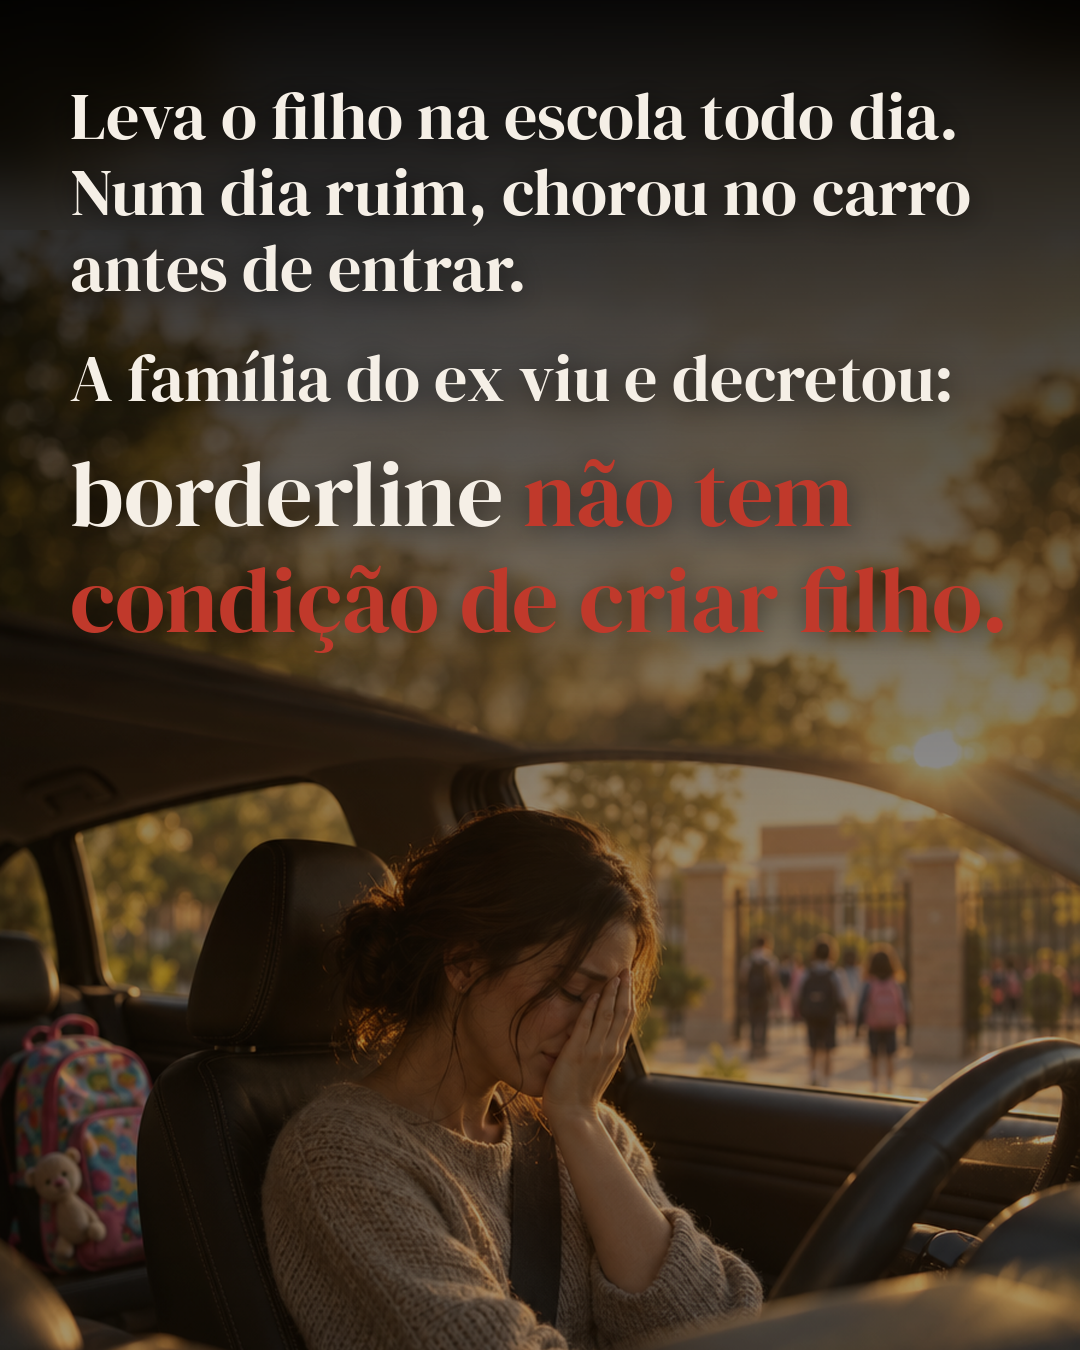
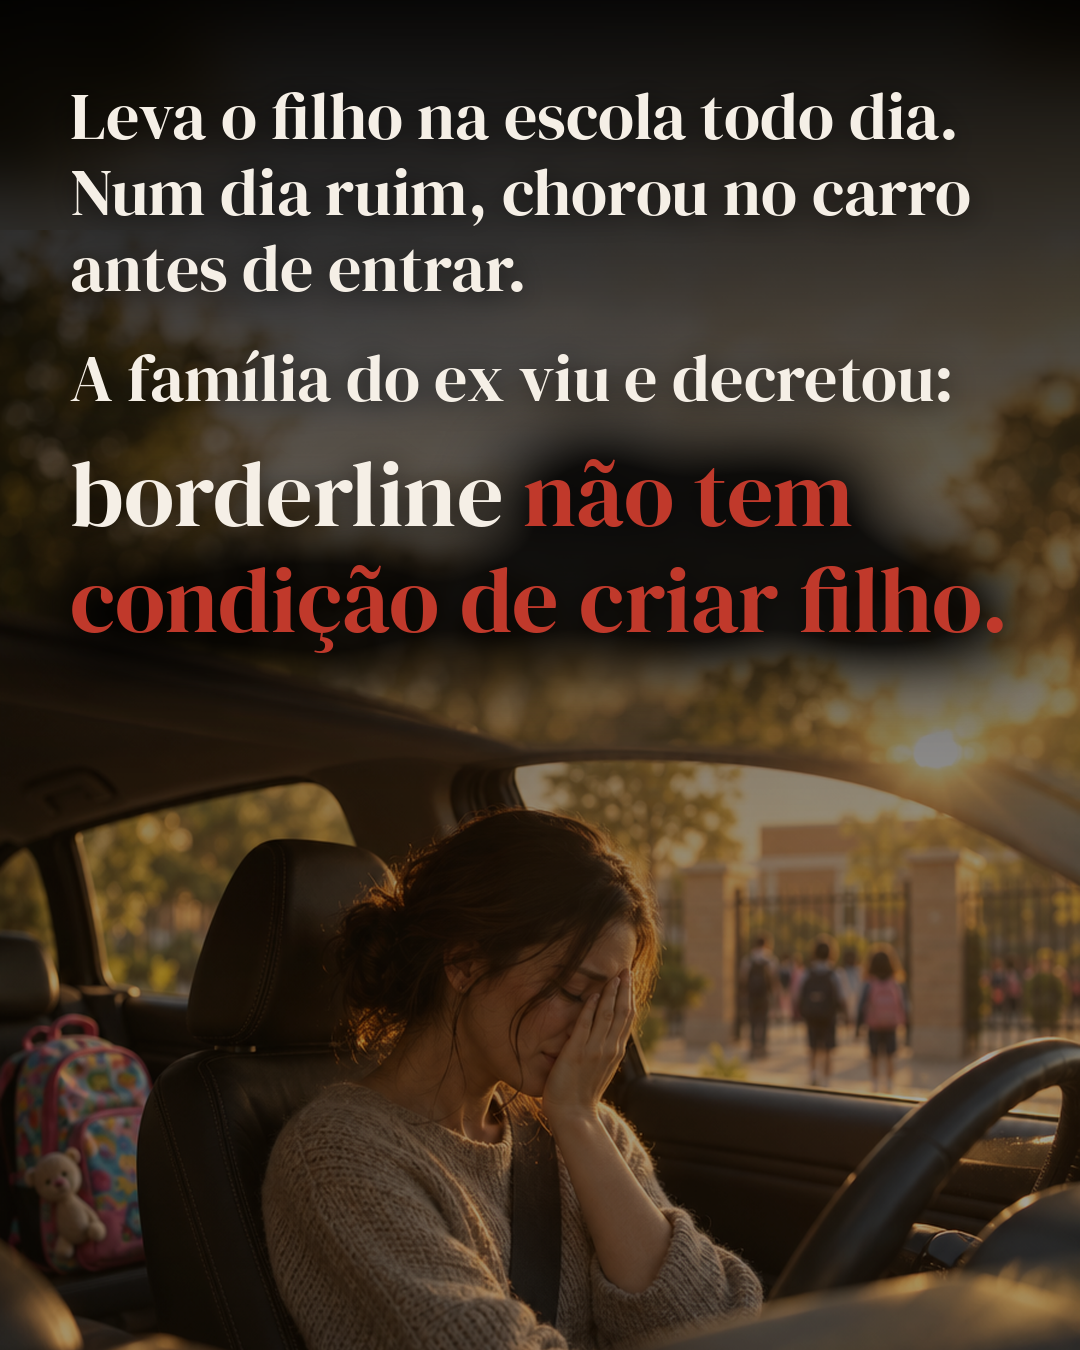
Carrossel mãe borderline: mais contraste no vermelho do slide 02
Claude-Session: https://claude.ai/code/session_01Y1aNYrQAZE6rQhxearLeeb

Changed region(s): [[0.0611, 0.3111, 0.9778, 0.5289]]

diff --git a/carrosseis/mae-borderline-regua/gerar.py b/carrosseis/mae-borderline-regua/gerar.py
@@ -80,7 +80,7 @@ def group_metrics(g):
     assert size >= 62, g
     return font, size, round(size * 1.15)
 
-def render(nome, bg, groups, pos):
+def render(nome, bg, groups, pos, reforco_vermelho=0):
     ms = [group_metrics(g) for g in groups]
     h = sum(len(g['lines']) * lh + g.get('gap', 0) for g, (_, _, lh) in zip(groups, ms)) - groups[-1].get('gap', 0)
     im = bg.copy()
@@ -98,6 +98,13 @@ def render(nome, bg, groups, pos):
     for x, y, t, font, c in ops: ds.text((x, y + 3), t, font=font, fill=255)
     sh = sh.filter(ImageFilter.GaussianBlur(14)).point(lambda v: int(v * .7))
     im = Image.composite(Image.new('RGB', (W, H)), im, sh)
+    if reforco_vermelho:
+        # halo escuro mais largo só atrás das palavras em vermelho, para o vermelho saltar sobre a luz da foto
+        hv = Image.new('L', (W, H), 0); dh = ImageDraw.Draw(hv)
+        for x, y, t, font, c in ops:
+            if c == RED: dh.text((x, y), t, font=font, fill=255, stroke_width=10, stroke_fill=255)
+        hv = hv.filter(ImageFilter.GaussianBlur(40)).point(lambda v: int(min(255, v * 2.2) * reforco_vermelho))
+        im = Image.composite(Image.new('RGB', (W, H)), im, hv)
     d = ImageDraw.Draw(im)
     minx = miny = 9999; maxx = maxy = 0
     for x, y, t, font, c in ops:
@@ -114,7 +121,7 @@ render('02.png', bg_foto('slide2.png', .95, .78, desce=230), [
     G(66, 34, 'Leva o filho na escola todo dia.', 'Num dia ruim, chorou no carro', 'antes de entrar.'),
     G(66, 22, 'A família do ex viu e decretou:'),
     G(92, 0, 'borderline [não tem', '[condição de criar filho.]'),
-], 'top')
+], 'top', reforco_vermelho=.85)
 
 render('03.png', bg_blur(), [
     G(76, 40, 'Ninguém olhou para os', 'outros dias do ano.'),
